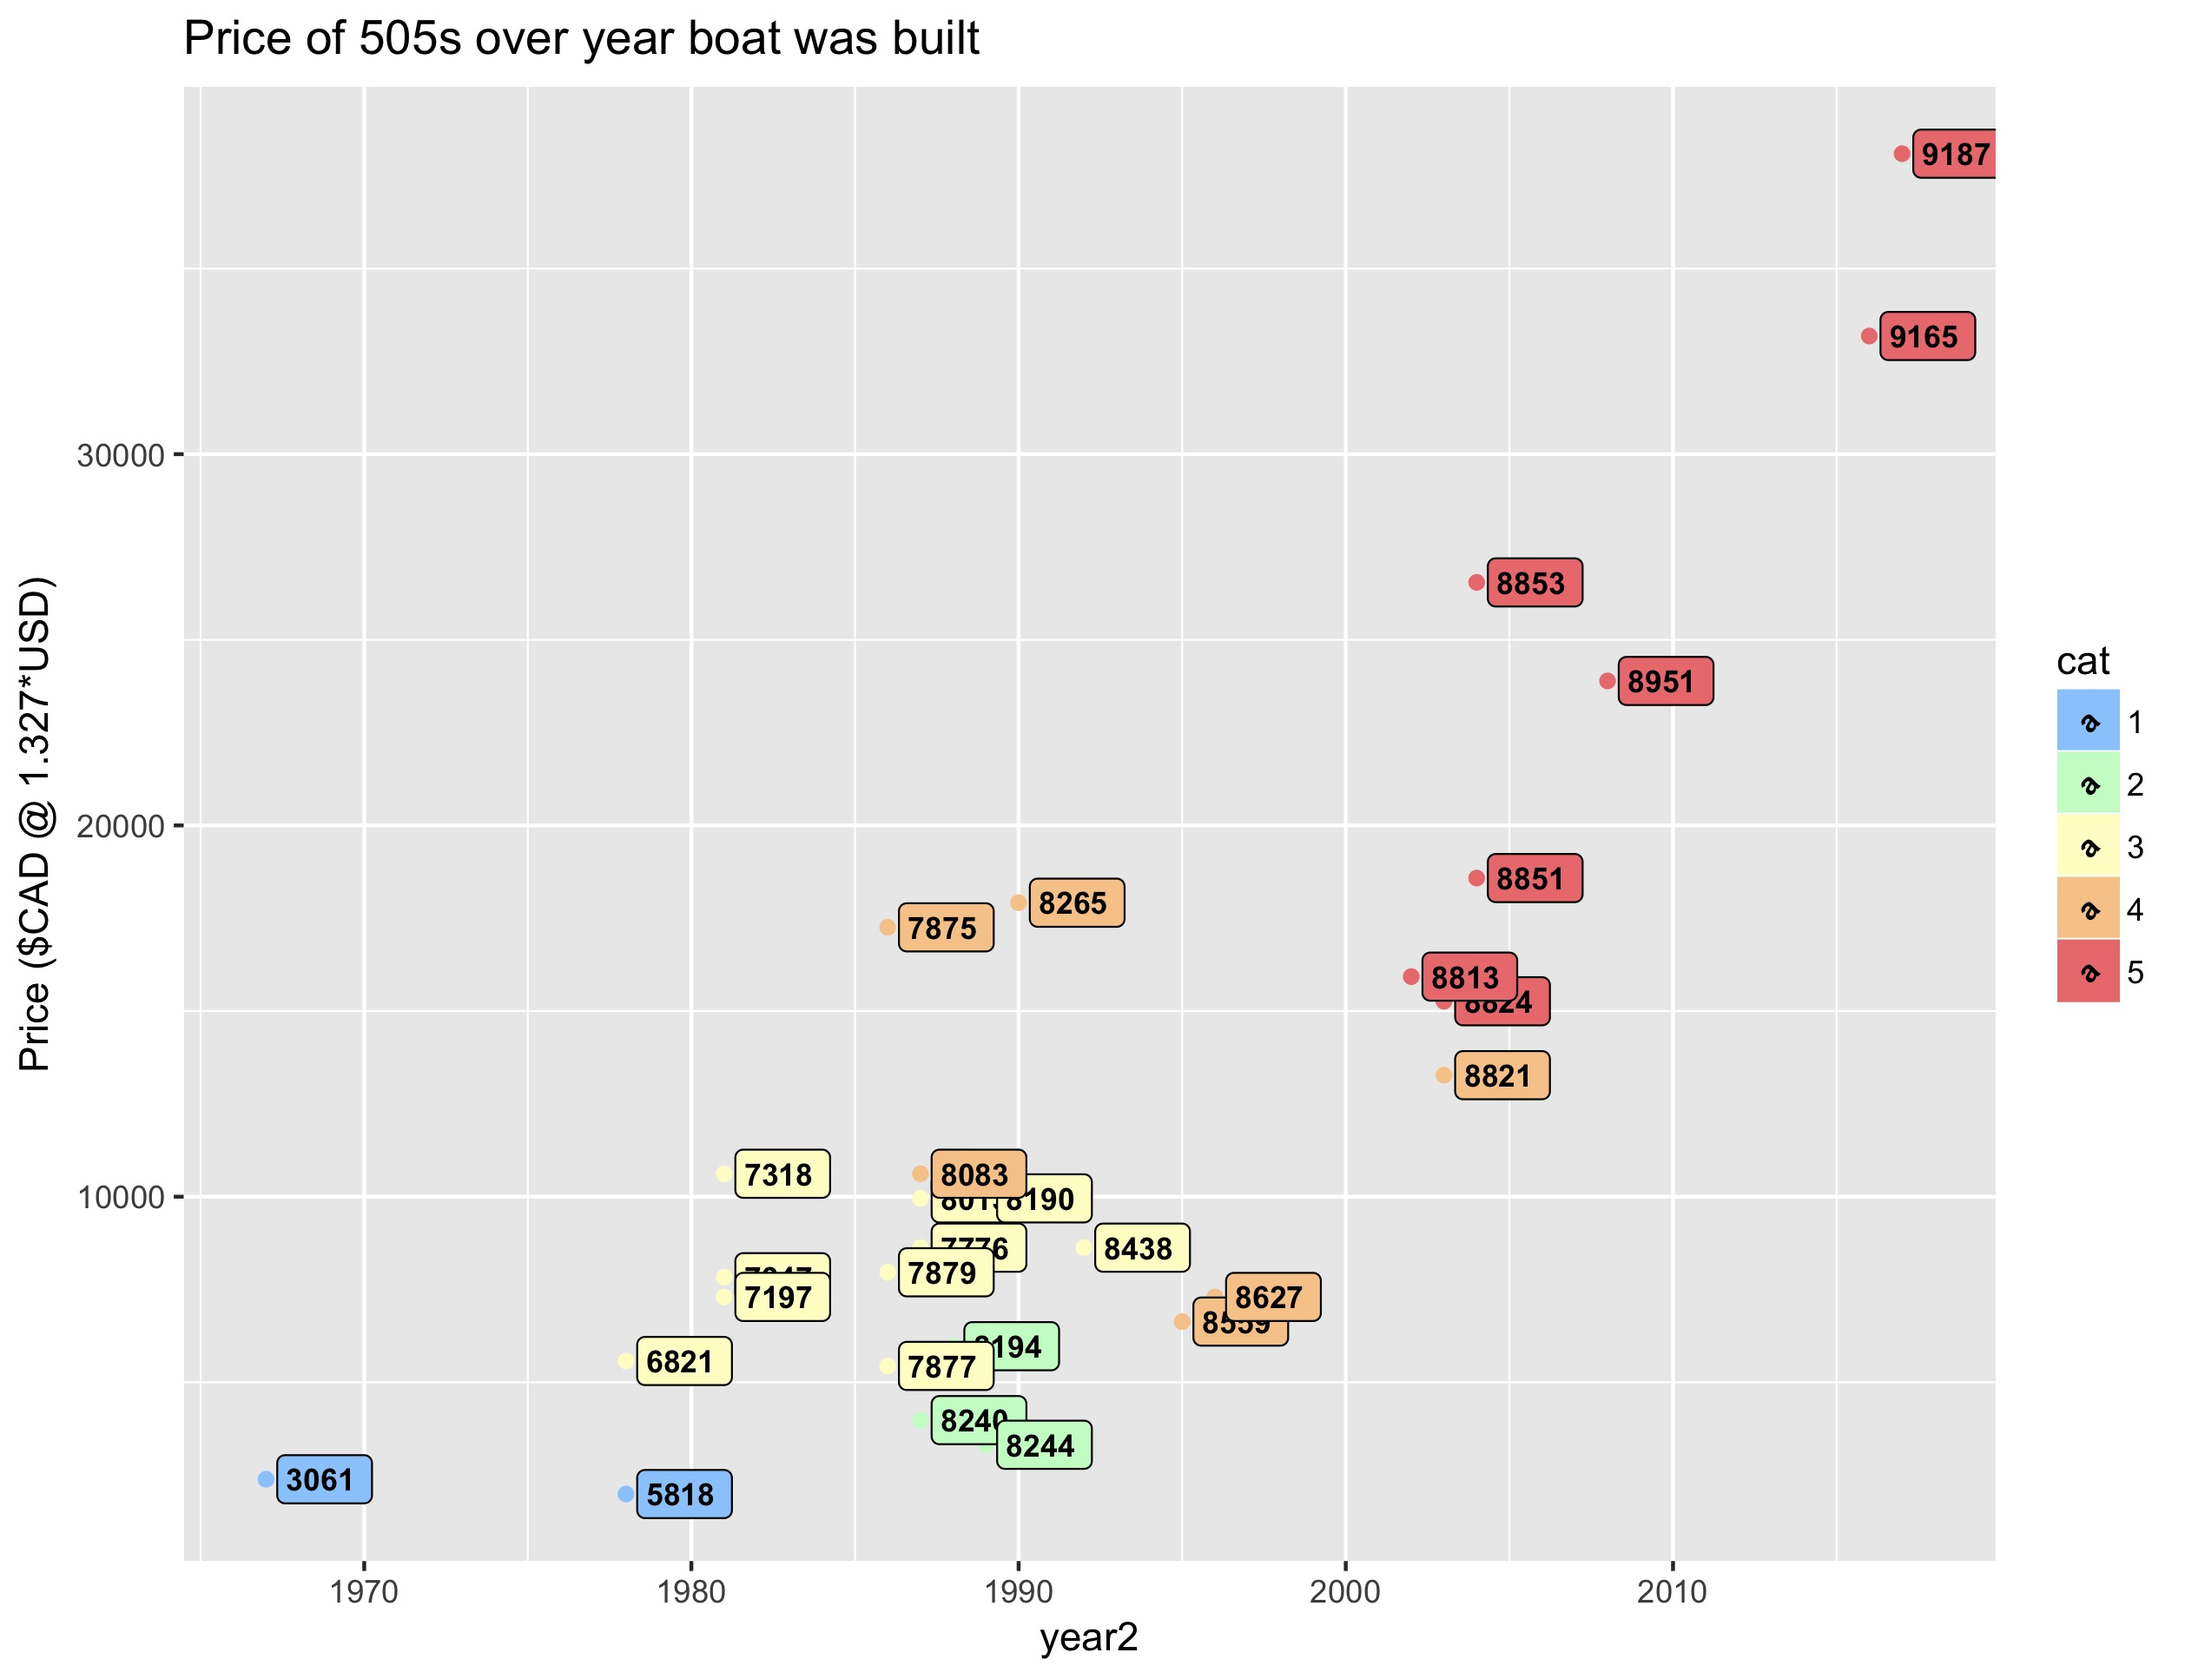
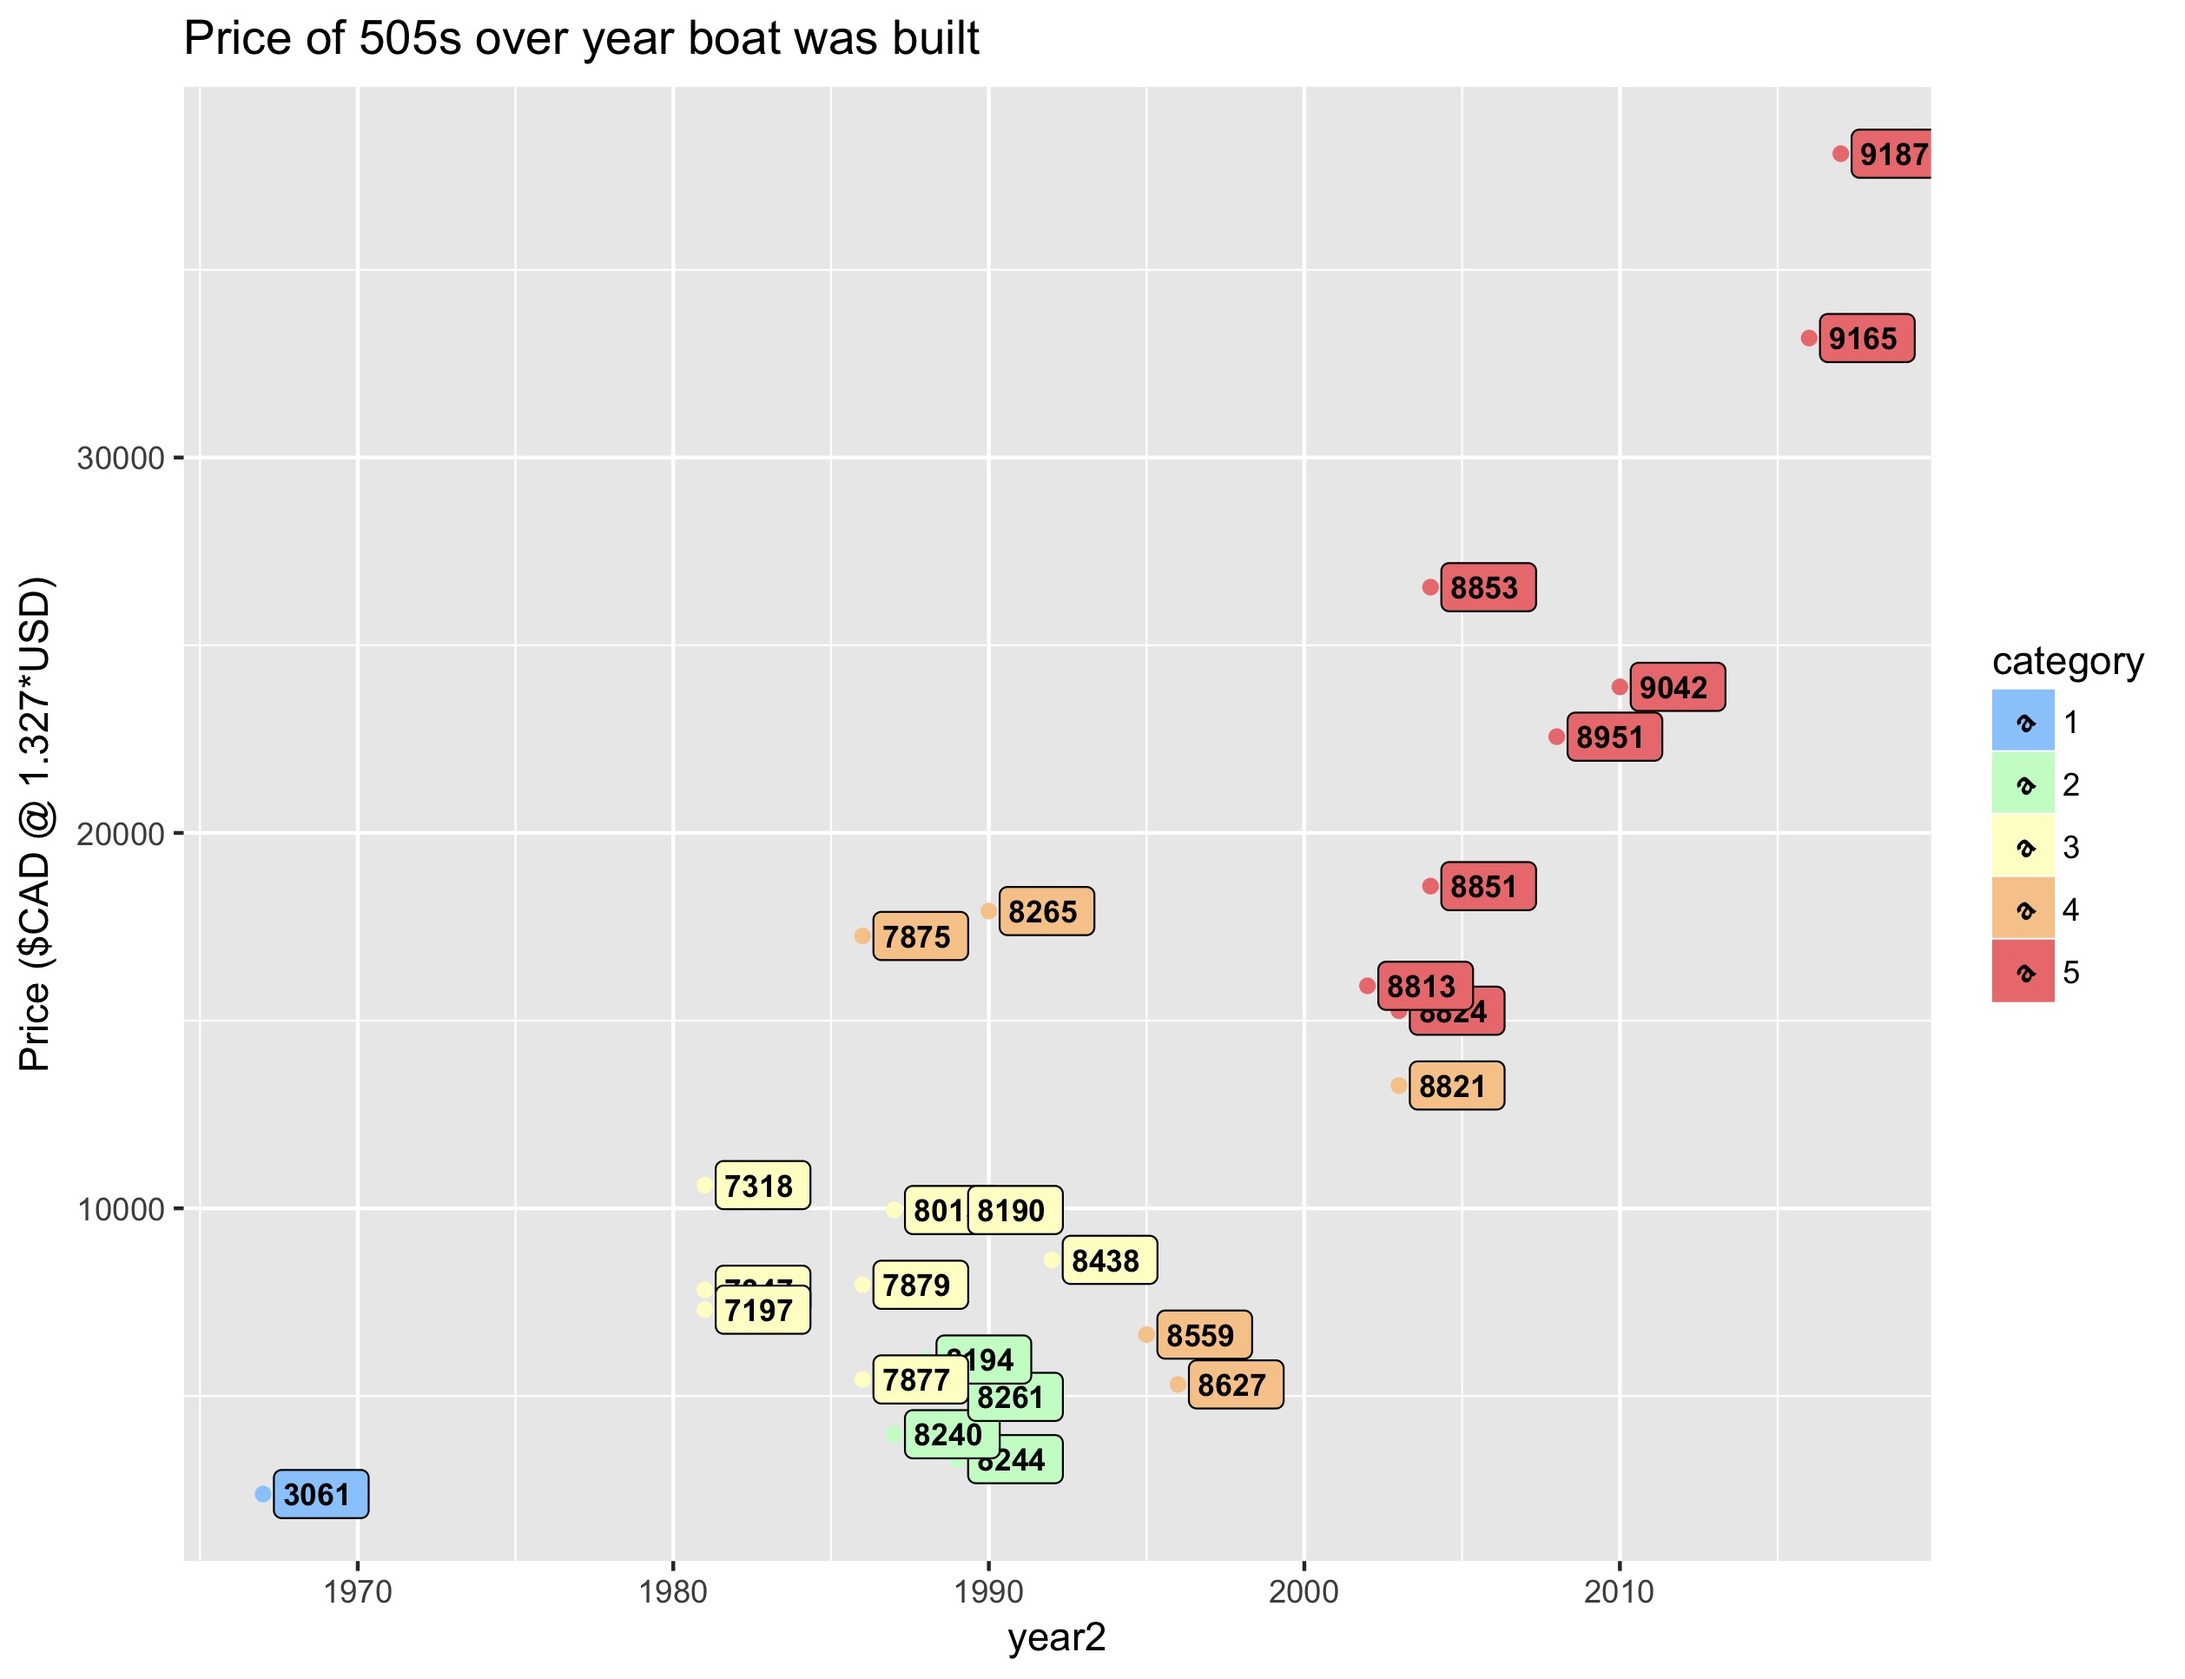
updates images

diff --git a/README.md b/README.md
@@ -1,13 +1,16 @@
 
-shopping-505
-============
+International 505 Classifieds Aids
+==================================
 
-Some aids to shopping for an international 505
+International 505s tend to be sold through purpose specific sites. These visual aids help summarise the information found on the site.
 
 Plots of price
 --------------
 
-A plot showing the various prices of boats from <http://www.usa505.org/classifieds>. ![chart](price-plot.jpeg)
+A plot showing the various prices of boats from <http://www.usa505.org/classifieds> (last updated June 7, 2018). Listing categories organize boats into 5 levels of typical boat description and price points.
+
+![chart](price-plot.jpeg)
 
 The same plot showing a smoothing line to help see patterns of over / under priced boats.
+
 ![chart2](price-plot_smooth.jpeg)
